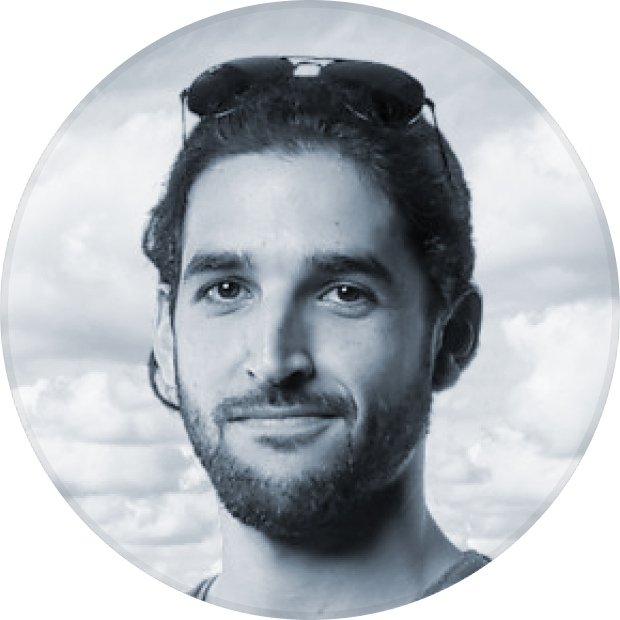
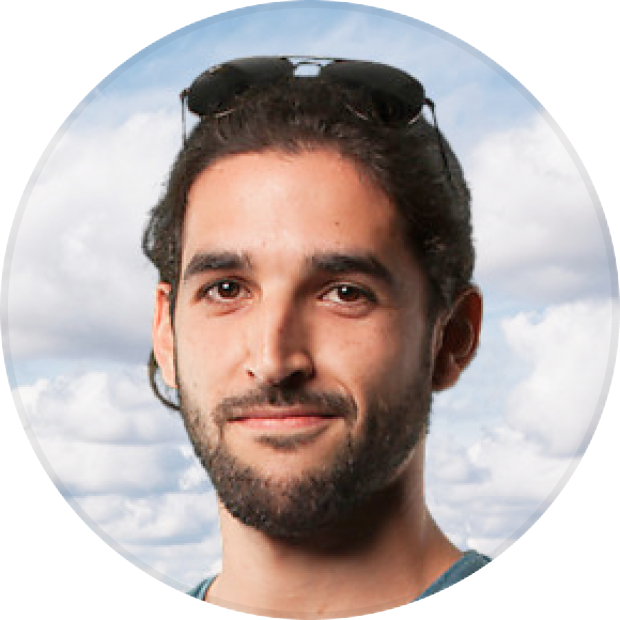
Tweak style

diff --git a/src/pages/index.tsx b/src/pages/index.tsx
@@ -8,43 +8,42 @@ type ChildrenProps = {
   children: React.ReactNode;
 };
 
-const TwitterIcon = styled(FaTwitter).attrs({})`
+const TwitterIcon = styled(FaTwitter)`
   font-size: 24px;
 `;
 
-const LinkedInIcon = styled(FaLinkedin).attrs({})`
+const LinkedInIcon = styled(FaLinkedin)`
   font-size: 24px;
 `;
 
 const Title = ({ children }: ChildrenProps) => (
-  <h1 className="text-3xl text-gray-700 font-semibold">{children}</h1>
+  <h1 className="text-4xl text-gray-800 font-light">{children}</h1>
 );
 
 const P = ({ children }: ChildrenProps) => (
-  <p className="text-lg text-gray-700 font-light">{children}</p>
+  <p className="leading-normal md:leading-normal text-2xl md:text-xl text-gray-500 font-light">
+    {children}
+  </p>
 );
 
 export default () => (
-  <main className="px-6 pt-8 pb-16 md:p-16 bg-gray-100 min-h-screen md:h-screen box-border border-t-4 border-blue-700">
+  <main className="px-6 pt-8 pb-16 md:py-20 md:px-32 bg-gray-50 min-h-screen md:min-h-screen box-border border-t-8 border-blue-600">
     <SEO />
     <div className="flex flex-col space-y-8 md:space-y-0 md:space-x-16 md:flex-row md:items-start">
       <img src={avatar} alt="Avatar" height="132px" width="132px" />
       <div className="space-y-6 max-w-xl">
         <Title>Hugo Cárdenas</Title>
-        <P>
-          👋 Hi! <br />I am a software developer from Spain, based in Helsinki,
-          Finland.
-        </P>
+        <P>I am a software developer from Spain, based in Helsinki, Finland.</P>
         <P>
           Currently working as a consultant in{" "}
           <a
-            className="font-medium text-gray-600 hover:text-gray-800"
+            className="font-medium text-gray-600 hover:text-blue-600"
             href="https://newthings.co"
           >
             newthings.co
           </a>
-          , I've been lately helping clients in the health sector and food
-          delivery, building some Cool Stuff™.
+          , helping clients in the health sector and food delivery, building
+          some <span className="italic">cool stuff™</span>.
         </P>
         <P>
           I get excited about building beautiful products where I feel aligned
@@ -60,14 +59,14 @@ export default () => (
             target="_blank"
             rel="noopener noreferrer"
           >
-            <TwitterIcon className="text-gray-400 hover:text-gray-500" />
+            <TwitterIcon className="text-gray-400 hover:text-blue-600" />
           </a>
           <a
             href="https://www.linkedin.com/in/hugocardenas/?locale=en_US"
             target="_blank"
             rel="noopener noreferrer"
           >
-            <LinkedInIcon className="text-gray-400 hover:text-gray-500" />
+            <LinkedInIcon className="text-gray-400 hover:text-blue-600" />
           </a>
         </div>
       </div>

diff --git a/tailwind.config.js b/tailwind.config.js
@@ -6,8 +6,8 @@ module.exports = {
   theme: {
     extend: {},
     colors: {
-      blue: colors.lightBlue,
-      gray: colors.blueGray,
+      blue: colors.cyan,
+      gray: colors.coolGray,
     },
   },
   variants: {
